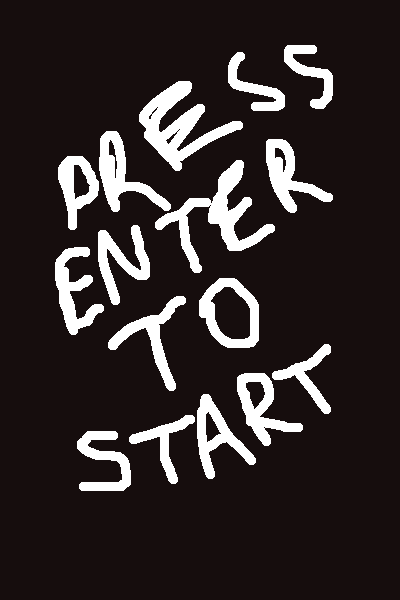
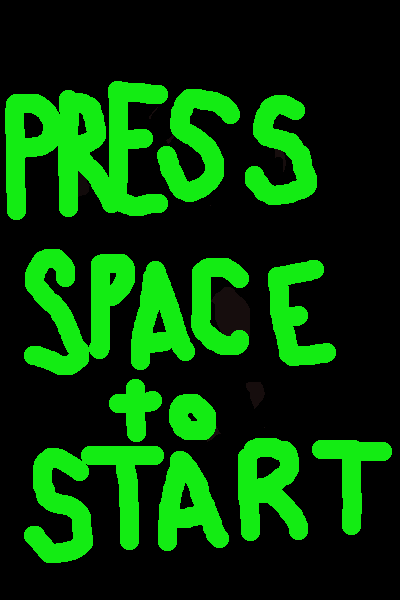
refactoring. game starts at menu. proceeds to game on button press.

diff --git a/app/js/playGame.js b/app/js/playGame.js
@@ -1,6 +1,6 @@
-'use strict'
-var game = new Phaser.Game(400, 500, Phaser.AUTO, 'game-holder',
-           { preload: preload, create: create, update: update });
+
+(function(){
+  game.state.add('playgame', {preload:preload, create:create, update: update});
 
 var laser;
 var explodeBaddie;
@@ -17,13 +17,6 @@ var scoreText;
 
 function preload() {
 
-  game.load.image('starfield', 'app/assets/starfield_background.png');
-  game.load.image('player', 'app/assets/heroShip.png');
-  game.load.image('bullet', 'app/assets/purple_ball.png');
-  game.load.image('baddie1', 'app/assets/shmup-baddie.png');
-  game.load.audio('laser', 'app/assets/sfx/blaster.mp3');
-  game.load.audio('explodeBaddie', 'app/assets/sfx/explosion.mp3');
-  game.load.image('kaplow', 'app/assets/explosion.png', 128, 128);
 }
 
 function create() {
@@ -32,14 +25,14 @@ function create() {
   explodeBaddie = game.add.audio('explodeBaddie');
 
   //set world bounds
-  game.world.setBounds(0, 0, 400, 500);
+  game.world.setBounds(0, 0, 400, 600);
 
   //create physics & cursors
   game.physics.startSystem(Phaser.Physics.ARCADE);
   cursors = game.input.keyboard.createCursorKeys();
 
   //add image assets to game
-  starfield = game.add.tileSprite(0, 0, 400, 500, 'starfield');
+  starfield = game.add.tileSprite(0, 0, 400, 600, 'starfield');
   player = game.add.sprite(180, 560, 'player');
 
   //create game score
@@ -139,3 +132,4 @@ function collisionHandler (bullet, baddie1) {
 function resetBullet(bullet) {
   bullet.kill();
 }
+})();

diff --git a/index.html b/index.html
@@ -9,7 +9,7 @@
     <title>Bit Blaster</title>
     <link rel="stylesheet" href="bower_components/skeleton/css/normalize.css">
     <link rel="stylesheet" href="bower_components/skeleton/css/skeleton.css">
-    <link rel="stylesmkheet" href="app/styles/main.css">
+    <link rel="stylesheet" href="app/styles/main.css">
   </head>
   <body>
     <div class='container'>
@@ -29,7 +29,7 @@
   <script src="bower_components/phaser/build/phaser.min.js"></script>
   <script src="app/js/game.js"></script>
   <script src="app/js/mainMenu.js"></script>
-  <!-- <script src="app/js/app.js"></script>  -->
+  <script src="app/js/playGame.js"></script> 
   </body>
 
 </html>

diff --git a/app/js/mainMenu.js b/app/js/mainMenu.js
@@ -18,11 +18,12 @@
 
     game.add.sprite(0, 0, 'menu');
 
-    var enterKey = game.input.keyboard.addKey(Phaser.Keyboard.ENTER);
-    enterKey.onDown.add(startLvl1);
+    var spacebar = game.input.keyboard.addKey(Phaser.Keyboard.SPACEBAR);
+    spacebar.onDown.add(startLvl1);
   }
 
   function startLvl1() {
-    this.game.state.start('lvl1');
+    this.game.state.start('playgame');
+    console.log('bananananasssss!');
   }
 })();
